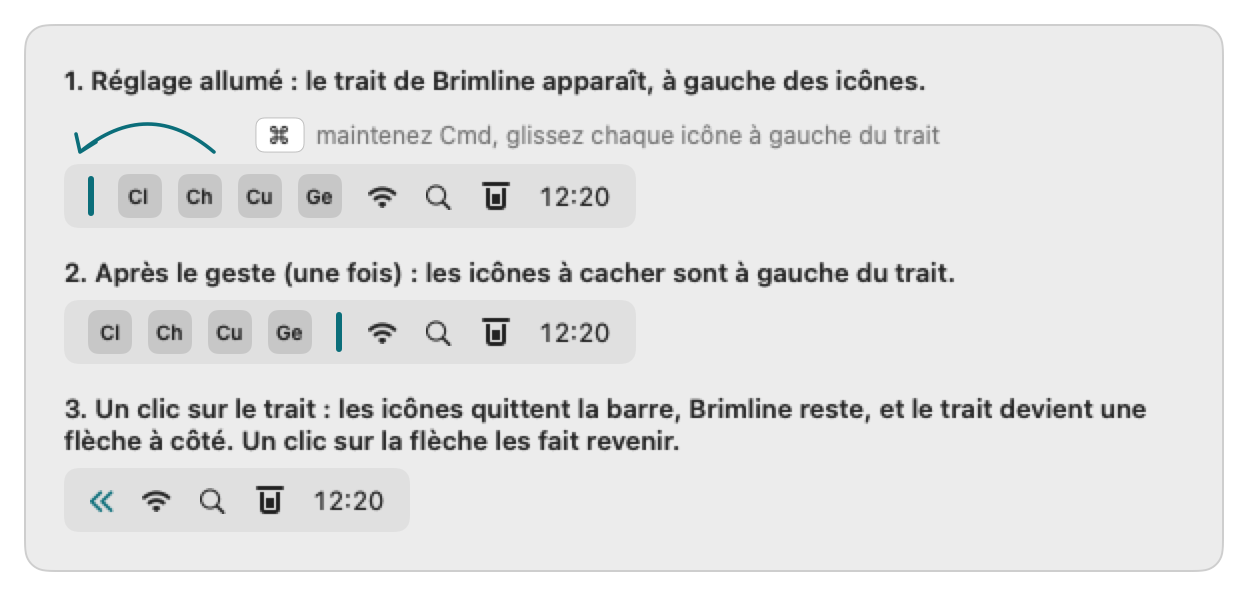
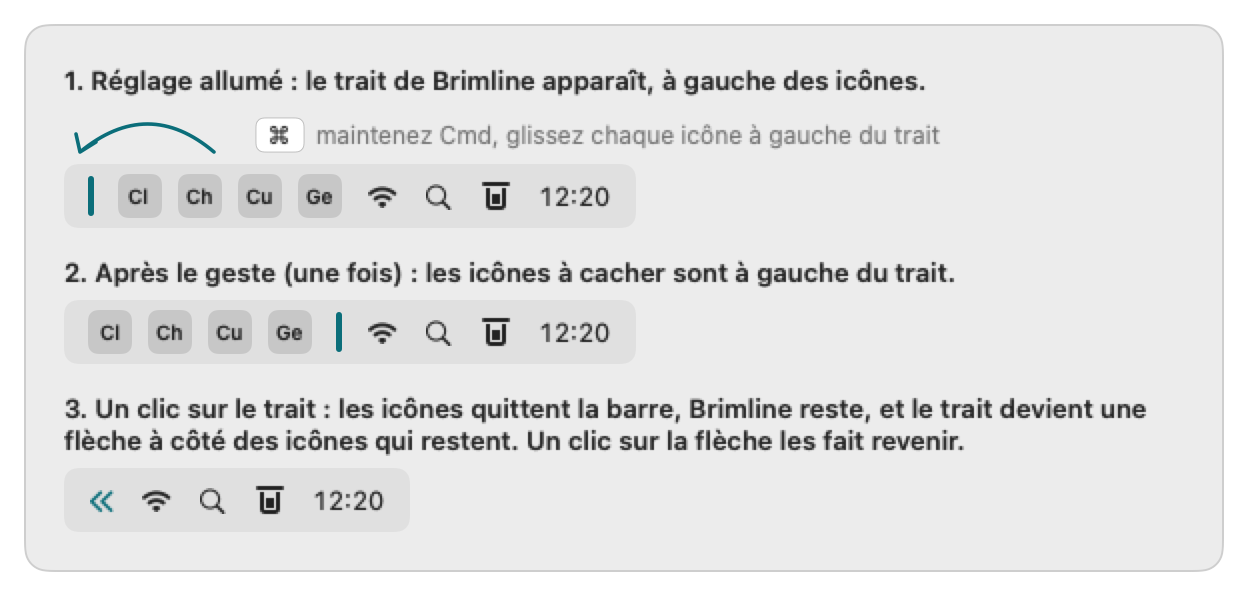
Review: a refusal after a click opens Settings; docs made exact
- A click on the bar that Brimline refuses now opens Settings on Menu Bar,
  where the reason is written (with the window closed nothing showed it),
  with a model test.
- The caption of step 3 says the arrow is beside the icons that stay.
- The alt text of the gesture picture describes the arrow (EN and FR).
- The « of macOS shows the hidden icons in place of the menus, as tried
  with 0.2.2 earlier the same day (now in J10).
- The CHANGELOG says the window and Settings buttons were not tried again.

Changed region(s): [[0.1875, 0.7248, 0.7812, 0.755]]

diff --git a/Sources/BrimlineCore/Formatting.swift b/Sources/BrimlineCore/Formatting.swift
@@ -601,8 +601,8 @@ public struct Strings: Sendable {
         t("2. After the gesture (once): the icons to hide are left of the bar.", "2. Après le geste (une fois) : les icônes à cacher sont à gauche du trait.")
     }
     public var menuBarHidingPictureHidden: String {
-        t("3. A click on the bar: the icons leave the menu bar, Brimline stays, and the bar becomes an arrow beside it. A click on the arrow brings them back.",
-          "3. Un clic sur le trait : les icônes quittent la barre, Brimline reste, et le trait devient une flèche à côté. Un clic sur la flèche les fait revenir.")
+        t("3. A click on the bar: the icons leave the menu bar, Brimline stays, and the bar becomes an arrow beside the icons that stay. A click on the arrow brings them back.",
+          "3. Un clic sur le trait : les icônes quittent la barre, Brimline reste, et le trait devient une flèche à côté des icônes qui restent. Un clic sur la flèche les fait revenir.")
     }
     public var menuBarHidingDiagramSpoken: String {
         t("Drawing of the menu bar: Claude, ChatGPT, Cursor and Gemini left of Brimline's bar are hidden; the icons right of it, Brimline too, are always shown.",

diff --git a/Sources/BrimlineUI/AppModel.swift b/Sources/BrimlineUI/AppModel.swift
@@ -391,7 +391,7 @@ public final class AppModel {
     public func attachSeparator(_ separator: any MenuBarSeparating) {
         self.separator = separator
         separator.onRecheck = { [weak self] decision in self?.applyHiding(decision) }
-        separator.onClick = { [weak self] in self?.toggleMenuBarIcons() }
+        separator.onClick = { [weak self] in self?.clickMenuBarSeparator() }
         separator.setPresent(settings.menuBarHiding.enabled)
     }
 
@@ -429,6 +429,16 @@ public final class AppModel {
 
     public func toggleMenuBarIcons() {
         if menuBarIconsHidden { showMenuBarIcons() } else { hideMenuBarIcons() }
+    }
+
+    /// A click on the bar hides or shows the icons. A refusal opens Settings on Menu Bar, where it is written: with
+    /// the Brimline window closed, nothing else would show it.
+    public func clickMenuBarSeparator() {
+        toggleMenuBarIcons()
+        if menuBarHidingRefusal != nil {
+            settingsTab = .menuBar
+            openSettings()
+        }
     }
 
     private func applyHiding(_ decision: MenuBarHiding.Decision) {

diff --git a/tests/BrimlineUITests/MenuBarHidingModelTests.swift b/tests/BrimlineUITests/MenuBarHidingModelTests.swift
@@ -119,6 +119,20 @@ struct MenuBarHidingModelTests {
         #expect(!bar.hidden && !m.menuBarIconsHidden)
     }
 
+    @Test("a refusal after a click on the bar opens Settings on Menu Bar, where it is written")
+    func clickRefusedOpensSettings() {
+        let m = model(enabled: true)
+        let bar = FakeBar()
+        bar.answer = .refuse(.brimlineLeftOfBar)
+        var opened = 0
+        m.openSettingsAction = { opened += 1 }
+        m.attachSeparator(bar)
+        m.showMenuBarIcons()
+        bar.onClick?()
+        #expect(!m.menuBarIconsHidden && m.menuBarHidingRefusal == .brimlineLeftOfBar)
+        #expect(opened == 1 && m.settingsTab == .menuBar)
+    }
+
     @Test("showing the icons (quit, reopening the app) always gives the bar its normal length")
     func showAlwaysShows() {
         let m = model(enabled: true)

diff --git a/docs/menu-bar.fr.md b/docs/menu-bar.fr.md
@@ -15,7 +15,7 @@ Brimline ne peut pas retirer lui-même l'icône d'une autre app : macOS laisse c
 **Coupé par défaut.** Allumez **Réglages, Barre des menus, Cacher sans retirer, « Cacher les icônes placées à gauche du trait »**.
 
 <p align="center">
-  <img src="images/menubar-hiding-gesture-fr-light.png" width="600" alt="Trois barres des menus : le trait de Brimline à gauche des icônes ; après le geste Cmd + glisser, Claude, ChatGPT, Cursor et Gemini à gauche du trait ; après Cacher les icônes, elles ont disparu et Brimline reste">
+  <img src="images/menubar-hiding-gesture-fr-light.png" width="600" alt="Trois barres des menus : le trait de Brimline à gauche des icônes ; après le geste Cmd + glisser, Claude, ChatGPT, Cursor et Gemini à gauche du trait ; après un clic sur le trait, elles ont disparu, le trait est une flèche « et Brimline reste">
 </p>
 
 1. **Le trait apparaît.** Brimline ajoute un élément à lui dans la barre des menus : un fin trait vertical. La première fois, il arrive à gauche des autres icônes (macOS y place tout nouvel élément).
@@ -36,12 +36,12 @@ Ce que les essais ont montré, et ce que Brimline en fait :
 
 - La longueur doit rester sous la moitié de l'écran environ : dès 960 pt (sur 1920), macOS retire le trait et ne cache rien (les 10 000 pt de Hidden Bar ne marchent plus sous macOS 27). La limite était la même aux deux places mesurées : trait à 838 pt, 940 pt ont poussé et 960 pt ont fait retirer le trait ; trait à 1512 pt (28 octobre 2026), 900 à 940 pt ont poussé et 950 pt l'ont fait retirer. Les autres places n'ont pas été essayées. Brimline prend **48 % de l'écran le plus étroit** sous macOS 27 et après (921 pt sur 1920), recalculés à chaque écran branché, débranché ou redimensionné (les icônes sont montrées, le trait se pose, puis la vérification repart). Sous macOS 26 et avant, il garde la longueur de Hidden Bar.
 - Une icône poussée sur les menus de l'app au premier plan n'est pas dessinée ; une icône qui tient encore à côté d'eux reste visible. Quand le trait est loin à droite (son bord gauche à plus de 48 % de l'écran plus 50 pt du bord gauche), la poussée peut donc laisser visibles les icônes les plus proches du trait, davantage avec une app aux menus courts. Brimline cache quand même ce qu'il peut, et la fenêtre de la barre des menus comme l'onglet Barre des menus des Réglages le disent : « Les icônes les plus proches du trait peuvent rester visibles : macOS ne laisse le trait les pousser que d'environ la moitié de l'écran. Ne gardez à gauche du trait que les icônes à cacher (maintenez Cmd et glissez les autres à sa droite) : le trait se place alors plus à gauche et les pousse toutes. » Essayé le 28 octobre 2026 avec le trait à 1512 pt et Finder ou Claude au premier plan, par de vrais clics dans la fenêtre de la barre des menus, et avec les Réglages au premier plan : les icônes les plus proches du trait (deux) sont restées visibles, déplacées à gauche, et les autres ont été cachées ; un « « » est apparu à leur place. Jusqu'à la version 0.2.1, il refusait de cacher dans ce cas.
-- Pendant que les icônes sont cachées, le trait est dessiné en flèche « au bout droit de l'élément allongé : il reste là où vous l'avez placé, à côté des icônes qui restent visibles, et un clic dessus montre les icônes cachées. macOS peut aussi montrer un « à lui juste après les menus de l'app au premier plan, dès qu'il a des icônes qu'il ne dessine pas : un clic dessus les montre par-dessus les menus. Celui-là appartient à macOS, et Brimline ne peut pas le déplacer. Les deux ont été vus le 28 octobre 2026 avec le trait à 1442 pt.
+- Pendant que les icônes sont cachées, le trait est dessiné en flèche « au bout droit de l'élément allongé : il reste là où vous l'avez placé, à côté des icônes qui restent visibles, et un clic dessus montre les icônes cachées. macOS peut aussi montrer un « à lui juste après les menus de l'app au premier plan, dès qu'il a des icônes qu'il ne dessine pas : un clic dessus les montre à la place de ces menus. Celui-là appartient à macOS, et Brimline ne peut pas le déplacer. Les deux ont été vus le 28 octobre 2026 avec le trait à 1442 pt.
 - Aucun signal ne dit que les icônes ont vraiment quitté la barre : Brimline ne lit la place de son trait que lorsque les icônes sont montrées, et refuse quand il ne peut pas la lire.
 
 ### Vous retrouvez toujours vos icônes
 
-- **Brimline reste à droite du trait, il n'est donc jamais caché**, ni sa fenêtre avec le bouton « Montrer les icônes cachées ». Le trait est posé après l'icône de Brimline, il arrive donc à sa gauche ; et avant chaque masquage, Brimline vérifie que sa propre icône est à droite du trait, et refuse sinon (« L'icône de Brimline est à gauche du trait : glissez-la à droite du trait, sinon elle serait cachée aussi. »).
+- **Brimline reste à droite du trait, il n'est donc jamais caché**, ni sa fenêtre avec le bouton « Montrer les icônes cachées ». Le trait est posé après l'icône de Brimline, il arrive donc à sa gauche ; et avant chaque masquage, Brimline vérifie que sa propre icône est à droite du trait, et refuse sinon (« L'icône de Brimline est à gauche du trait : glissez-la à droite du trait, sinon elle serait cachée aussi. »). Après un clic sur le trait, un refus ouvre les Réglages sur Barre des menus, où il est écrit.
 - **Couper le réglage** montre toutes les icônes et retire le trait de la barre : réglage coupé, il n'y a aucun trait.
 - **Quitter Brimline** fait revenir toutes les icônes : le trait appartient au processus de Brimline et part avec lui. Après un plantage, ce devrait être pareil, par construction (le trait part avec l'app), non essayé. À chaque lancement, les icônes partent montrées, même si elles étaient cachées au dernier arrêt.
 - **Rouvrir Brimline** (Finder, Spotlight) montre les icônes cachées et ouvre les réglages : une voie de retour qui ne dépend pas de la barre des menus.

diff --git a/docs/menu-bar.md b/docs/menu-bar.md
@@ -15,7 +15,7 @@ Brimline cannot remove another app's icon itself: macOS leaves that choice to ea
 **Off by default.** Turn on **Settings, Menu Bar, Hide without removing, "Hide the icons placed left of the bar"**.
 
 <p align="center">
-  <img src="images/menubar-hiding-gesture-light.png" width="600" alt="Three menu bars: Brimline's bar left of the icons; after the Command-drag, Claude, ChatGPT, Cursor and Gemini left of the bar; after Hide the icons, they are gone and Brimline stays">
+  <img src="images/menubar-hiding-gesture-light.png" width="600" alt="Three menu bars: Brimline's bar left of the icons; after the Command-drag, Claude, ChatGPT, Cursor and Gemini left of the bar; after a click on the bar, they are gone, the bar is an arrow « and Brimline stays">
 </p>
 
 1. **The bar appears.** Brimline adds one item of its own to the menu bar: a thin vertical bar. The first time, it lands left of the other icons (macOS puts a new item there).
@@ -36,12 +36,12 @@ What the tries showed, and what Brimline does with it:
 
 - The length must stay under about half of the screen: from 960 pt (on 1920), macOS takes the bar out and hides nothing (the 10,000 pt of Hidden Bar no longer works on macOS 27). The limit was the same at the two places measured: with the bar at 838 pt, 940 pt pushed and 960 pt got the bar taken out; with the bar at 1512 pt (28 October 2026), 900 to 940 pt pushed and 950 pt got it taken out. Other places were not tried. Brimline uses **48 % of the narrowest screen** on macOS 27 and later (921 pt on 1920), computed again each time a screen comes, goes or changes size (the icons are shown, the bar settles, then the check runs again). On macOS 26 and before, it keeps the length of Hidden Bar.
 - An icon pushed onto the menus of the app in front is not drawn; one that still fits beside them stays shown. So when the bar is far right (its left edge more than 48 % of the screen plus 50 pt from the left), the push may leave the icons nearest the bar shown, more of them with an app whose menus are short. Brimline still hides what it can, and the menu bar window and the Menu Bar tab of Settings say: "The icons closest to the bar may stay visible: macOS lets the bar push them by about half the screen only. Keep only the icons to hide left of the bar (hold Command and drag the others to its right): the bar then sits further left and pushes them all out." Tried on 28 October 2026 with the bar at 1512 pt and Finder or Claude in front, by real clicks in the menu bar window, and with Settings in front: the icons nearest the bar (two of them) stayed visible, moved left, and the others were hidden; a « sign appeared in their place. Up to version 0.2.1, it refused to hide in that case.
-- While the icons are hidden, the bar is drawn as an arrow « at the right end of the long item: it stays where you put it, beside the icons that stay shown, and a click on it shows the hidden icons. macOS may also show a « of its own right after the menus of the app in front, as soon as it has icons it does not draw: a click on it shows them over the menus. That one belongs to macOS, and Brimline cannot move it. Both were seen on 28 October 2026 with the bar at 1442 pt.
+- While the icons are hidden, the bar is drawn as an arrow « at the right end of the long item: it stays where you put it, beside the icons that stay shown, and a click on it shows the hidden icons. macOS may also show a « of its own right after the menus of the app in front, as soon as it has icons it does not draw: a click on it shows them in place of those menus. That one belongs to macOS, and Brimline cannot move it. Both were seen on 28 October 2026 with the bar at 1442 pt.
 - No signal says that the icons really left the menu bar: Brimline reads its bar's place only while the icons are shown, and refuses when it cannot read it.
 
 ### You always get your icons back
 
-- **Brimline stays right of the bar, so it is never hidden**, and neither is its window with the "Show the hidden icons" button. The bar is put in after Brimline's own icon, so it lands left of it; and before each hiding Brimline checks that its own icon is right of the bar, and refuses otherwise ("Brimline's icon is left of the bar: drag it right of the bar, or it would be hidden too.").
+- **Brimline stays right of the bar, so it is never hidden**, and neither is its window with the "Show the hidden icons" button. The bar is put in after Brimline's own icon, so it lands left of it; and before each hiding Brimline checks that its own icon is right of the bar, and refuses otherwise ("Brimline's icon is left of the bar: drag it right of the bar, or it would be hidden too."). After a click on the bar, a refusal opens Settings on Menu Bar, where it is written.
 - **Turning the setting off** shows every icon and takes the bar out of the menu bar: when the setting is off, there is no bar at all.
 - **Quitting Brimline** brings every icon back: the bar belongs to Brimline's process and leaves with it. After a crash it should be the same, by design (the bar goes away with the app), not tried. At each launch the icons start shown, even when they were hidden at the last quit.
 - **Opening Brimline again** (Finder, Spotlight) shows the hidden icons, and opens the settings: a way back that does not depend on the menu bar.

diff --git a/docs/parcours-critiques.md b/docs/parcours-critiques.md
@@ -89,7 +89,7 @@ The journeys to replay before each release to prove that Brimline (the macOS men
 - Automated: no.
 - Result on 2026-10-28: not verifiable in this run. It needs the graphical session of the maintainer and real accounts, which a non-regression run must not use; the bundle was built (J5) and its views drawn on invented data (J7), nothing more. Reading real providers also stays manual (the 27 October 2026 trials listed in the README and in `docs/providers.md`).
 - Result on 2026-10-28, later, with the maintainer's agreement, on the maintainer's Mac (macOS 27.0.1, a 1920 pt screen, real accounts), build of version 0.2.2 installed by `scripts/install.sh`, by real mouse clicks: a click on Brimline's element opens the panel; "Hide the icons" in the panel, with Claude in front and the bar at 1512 pt, hides the icons left of the bar except the two closest to it, which move left (a « sign appears in place of the others), the line of the bar stays in place and the panel shows the note on the icons closest to the bar; "Show the hidden icons" brings every icon back; the same with Finder in front and with Settings in front. In Settings, Accounts, the "+" of "Other color…" opens the system color panel without changing the saved colors, and the panel closes with Settings. Proof: screenshots of the menu bar before and after each step, kept with the maintainer. Not covered: opening at login, the system log.
-- Result on 2026-10-28, at night, same Mac, build of the change "a click on the bar" (after 0.2.2) installed by `scripts/install.sh`, by real mouse clicks, with the bar at 1442 pt: a click on the bar hides every icon left of it and the bar becomes an arrow « beside the search icon (macOS also shows its own « right after the menus of Claude); a click on the arrow shows them all again; a second cycle gives the same; with the Brimline window open, a click on the arrow closes it and shows the icons. Proof: screenshots of the menu bar, kept with the maintainer. Not covered: the "Hide the icons" button of the window in this build (the Mac was in use), opening at login.
+- Result on 2026-10-28, at night, same Mac, build of the change "a click on the bar" (after 0.2.2) installed by `scripts/install.sh`, by real mouse clicks, with the bar at 1442 pt: a click on the bar hides every icon left of it and the bar becomes an arrow « beside the search icon (macOS also shows its own « right after the menus of Claude; earlier the same day, with version 0.2.2, a click on that « of macOS showed the hidden icons in place of the menus of the app in front); a click on the arrow shows them all again; a second cycle gives the same; with the Brimline window open, a click on the arrow closes it and shows the icons. Proof: screenshots of the menu bar, kept with the maintainer. Not covered: the "Hide the icons" button of the window in this build (the Mac was in use), opening at login.
 
 ## Debt
 

diff --git a/CHANGELOG.md b/CHANGELOG.md
@@ -8,7 +8,7 @@ The version lives in the `VERSION` file. `0.0.0` is the development version: not
 
 ### Changed
 
-- **A click on Brimline's bar hides the icons, and the bar becomes an arrow «.** The arrow sits where the bar was, right beside the icons that stay shown, and a click on it shows the hidden icons again, without opening the Brimline window (the buttons of the window and of Settings still work). Before, the hidden state left only the « that macOS draws right after the menus of the app in front, far from the other icons; that one is still there, as it belongs to macOS. Tried on 28 October 2026 by real clicks on the maintainer's Mac, with the bar at 1442 pt: a click on the bar hides, a click on the arrow shows, and a click on the arrow with the Brimline window open closes it and shows the icons.
+- **A click on Brimline's bar hides the icons, and the bar becomes an arrow «.** The arrow sits where the bar was, right beside the icons that stay shown, and a click on it shows the hidden icons again, without opening the Brimline window (the buttons of the window and of Settings are unchanged, and were not tried again in this build). If Brimline refuses to hide after a click on the bar, Settings opens on Menu Bar, where the reason is written. Before, the hidden state left only the « that macOS draws right after the menus of the app in front, far from the other icons; that one is still there, as it belongs to macOS. Tried on 28 October 2026 by real clicks on the maintainer's Mac, with the bar at 1442 pt: a click on the bar hides, a click on the arrow shows, and a click on the arrow with the Brimline window open closes it and shows the icons.
 
 ## [0.2.2] - 2026-10-28
 
